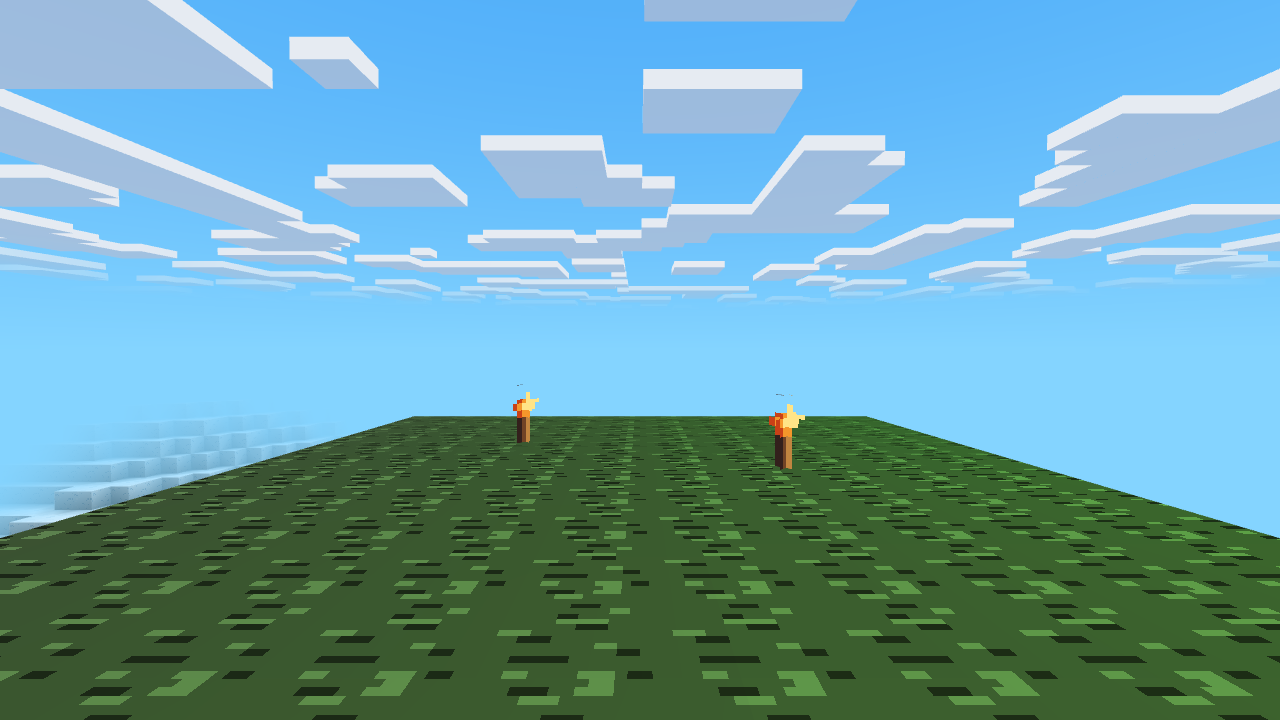
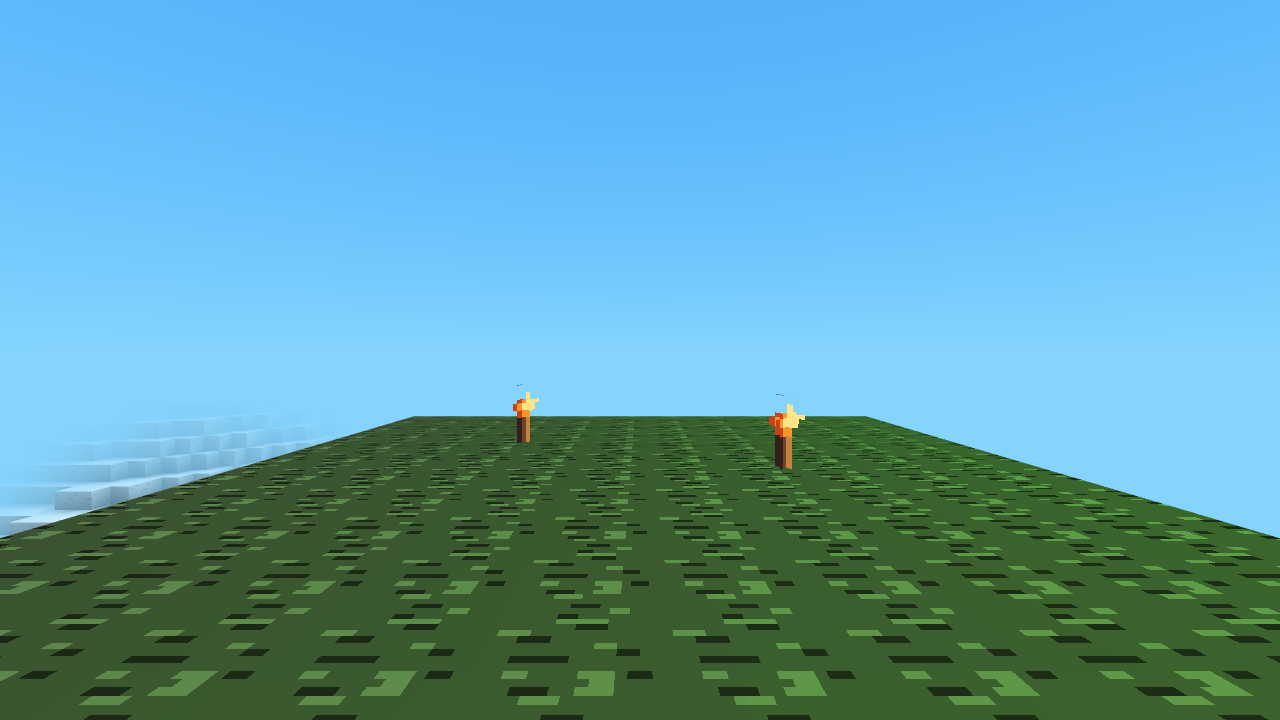
M12b-fix: third approved setClouds('off') in M12a time-of-day test; handoff notes
Claude-Session: https://claude.ai/code/session_01Smd8eqm1xr5HNTjq8BBkLx

Changed region(s): [[0.0, 0.0, 1.0, 0.4278], [0.5, 0.0, 0.6875, 0.0306]]

diff --git a/tests/e2e/m12.spec.ts b/tests/e2e/m12.spec.ts
@@ -110,6 +110,7 @@ test('M12a time of day, noon sky, sunset west horizon glow, and midnight stars',
     api.setRenderDistance!(4);
     await api.createWorld!({ seed: 'blockcraft-test-seed-42', type: 'default' });
     api.pause!();
+    window.__blockcraft!.setClouds!('off');
     await api.waitForTerrain!(4);
   });
   await waitForStreamingIdle(page, 120_000);

diff --git a/progress/M12b.md b/progress/M12b.md
@@ -1,37 +1,48 @@
 # M12b — Clouds
 
-Status: verified (on CI; PR #42 open)
+Status: verified (M12b-fix applied on PR #42)
 Depends on: M12a, M12a-fix
-Full verify (this session): typecheck ✓ · lint ✓ · placeholders ✓ · unit 490 passed (70 files) · e2e (CI decides; M12b & M12a pass locally) · console errors 0
+Full verify (this session, M12b-fix): typecheck ✓ · lint ✓ · placeholders ✓ · unit 490 passed (70 files) · e2e 69 passed · console errors 0
 
 ## Acceptance criteria owned
 
-- [x] Opaque cloud field at y=192 rendered as extruded 3D volumes (4 blocks thick, y=192..196) with soft shading (top 1.0, side 0.96 bright rim, bottom 0.78 pale lavender-blue tinted to sky) from a seeded 2D periodic noise grid (~12×12-block cells, 33.7% coverage) drifting with wind along +X at 1 block/s advanced on fixed tick, lit by M12 sky brightness → `tests/unit/m12b-clouds.test.ts` › `"defines shading with top 1.0, sides 0.96, bottom 0.78"`, `"generates coverage roughly 30–40 % (target ~35 %)"`, `"drifts along +X at 1 block/s on the fixed tick (20 ticks/s)"` & `tests/e2e/m12.spec.ts` › `"M12b clouds: extruded 3D volumes, fast 2D plane, wind drift, and sun glare"`
-- [x] Chunky, compact shapes with stepped outlines: no active cell belongs to a 1-cell-wide strand unless it is a lone cell or part of a 2–3 cell clump (guaranteed via 2x2 morphological open); zero interior holes; strict 33.7% coverage (345 active cells) → `tests/unit/m12b-clouds.test.ts` › `"ensures no active cell belongs to a 1-cell-wide strand unless it is a lone cell or part of a 2–3 cell clump"` & `tests/e2e/m12.spec.ts` › `"M12b clouds: extruded 3D volumes, fast 2D plane, wind drift, and sun glare"`
+- [x] Opaque cloud field at y=192 rendered as extruded 3D volumes (3 blocks thick, y=192..195) with soft shading (top 1.0, side 0.96 bright rim, bottom 0.78 pale lavender-blue tinted to sky) from a seeded 2D periodic noise grid (8×8-block cells on a 48×48 grid, 31.3% coverage) drifting with wind along +X at 1 block/s advanced on fixed tick, lit by M12 sky brightness → `tests/unit/m12b-clouds.test.ts` › `"defines shading with top 1.0, sides 0.96, bottom 0.78"`, `"generates coverage roughly 30–40 % (target ~35 %)"`, `"drifts along +X at 1 block/s on the fixed tick (20 ticks/s)"` & `tests/e2e/m12.spec.ts` › `"M12b clouds: extruded 3D volumes, fast 2D plane, wind drift, and sun glare"`
+- [x] Chunky, compact shapes with stepped outlines: no active cell belongs to a 1-cell-wide strand unless it is a lone cell or part of a 2–3 cell clump (guaranteed via 2x2 morphological open); zero interior holes; 31.3% coverage (721 active cells of 2304) → `tests/unit/m12b-clouds.test.ts` › `"ensures no active cell belongs to a 1-cell-wide strand unless it is a lone cell or part of a 2–3 cell clump"` & `tests/e2e/m12.spec.ts` › `"M12b clouds: extruded 3D volumes, fast 2D plane, wind drift, and sun glare"`
 - [x] Clouds drawn fully solid (alpha 1, depth-tested, depth write enabled, no translucency), completely hiding the sun disc and intense glare behind them → `tests/e2e/m12.spec.ts` › `"M12b clouds: extruded 3D volumes, fast 2D plane, wind drift, and sun glare"`
-- [x] Cloud range reaches visibly to horizon (`Math.max(512, 2 * fogEnd)` = 512 blocks at RD8) with gentle fade starting at 50% (`fogStart = 256`, `fogEnd = 512`), never ending in a visible line; fancy triangles reduced to 25,603 → `tests/e2e/m12.spec.ts` › `"M12b clouds: extruded 3D volumes, fast 2D plane, wind drift, and sun glare"`
+- [x] Cloud range reaches visibly to horizon (`Math.max(512, 2 * fogEnd)` = 512 blocks at RD8) with gentle fade starting at 50% (`fogStart = 256`, `fogEnd = 512`), never ending in a visible line; fancy triangles 12,643 → `tests/e2e/m12.spec.ts` › `"M12b clouds: extruded 3D volumes, fast 2D plane, wind drift, and sun glare"`
 - [x] Fast 2D cloud plane option: single flat textured plane at y=192 controlled by `settings.clouds: 'fancy' | 'fast' | 'off'` (default `'fancy'`) with debug API `setClouds(mode)` in `src/debug/api/clouds.ts` → `tests/unit/m12b-clouds.test.ts` › `"defaults to fancy mode and updates via setClouds debug call"` & `tests/e2e/m12.spec.ts` › `"M12b clouds: extruded 3D volumes, fast 2D plane, wind drift, and sun glare"`
-- [x] SwiftShader performance & static GPU buffers: mesh generated once at construction and reused across tiled regions with uniform offsets; triangle counts scale between modes (`fancyTriangles = 25603`, `fastTriangles = 403`, `offTriangles = 355`) without heap allocation during draw → `tests/e2e/m12.spec.ts` › `"M12b clouds: extruded 3D volumes, fast 2D plane, wind drift, and sun glare"`
+- [x] SwiftShader performance & static GPU buffers: mesh generated once at construction and reused across tiled regions with uniform offsets; triangle counts scale between modes (`fancyTriangles = 12643`, `fastTriangles = 403`, `offTriangles = 355`) without heap allocation during draw → `tests/e2e/m12.spec.ts` › `"M12b clouds: extruded 3D volumes, fast 2D plane, wind drift, and sun glare"`
 - [x] Sun glare: height-dependent glare halo in sky shader that warms and shrinks at sunset; blocked by opaque clouds passing in front of it → `tests/unit/m12b-clouds.test.ts` › `"saturates to near white at noon looking at the sun disc"`, `"dims, shrinks and warms to orange at sunset so the disc is readable"` & `tests/e2e/m12.spec.ts` › `"M12b clouds: extruded 3D volumes, fast 2D plane, wind drift, and sun glare"`
 - [x] Visual Review screenshots (`m12-clouds-overhead.png`, `m12-noon.png`, `m12-sun-glare-noon.png`, `m12-sun-glare-sunset.png`) saved to `docs/screenshots/M12b/` and visually inspected.
 
 ## Screenshots (docs/screenshots/M12b/)
 
-- `m12-clouds-overhead.png`: Camera pitched ~25° up looking at noon from near sea level (terrace eye height `y ~ 75`). Shows chunky, compact 3D cloud slabs spanning the sky with flat lavender-blue undersides (`mix(underside, skyCol, 0.30)`), bright near-white side rims (`vec3(0.90, 0.92, 0.95)`), stepped outlines, and pure white tops. A large 4-block-thick slab occupies the upper right, with smaller compact 2–6 cell stepped clouds and small clumps receding gracefully toward the lower horizon where they fade gently and smoothly into the blue sky dome without any visible boundary line.
-  *Comparison to reference*: Directly matches the reference art in compact chunky shapes, stepped outlines, absence of 1-cell-wide strands, 4-block thickness, lavender-blue undersides, near-white edge rims, and smooth distant horizon fade.
-- `m12-noon.png`: Looking west at pitch 0.12 from the terrace. Foreground green grass platform with two lit torches, distant misty mountains shrouded in atmospheric blue haze on the far left, and a vast field of chunky 3D clouds stretching toward the horizon with flat lavender-blue undersides and bright rims.
-- `m12-sun-glare-noon.png`: Camera looking directly up at pitch 75° toward the noon sun from the terrace (`x = -5`). A solid, opaque 3D cloud slab is positioned directly between the camera and the sun, visibly and completely blocking the sun disc and central glare with its solid lavender-blue underside (`r: 150, g: 183, b: 221, luminance: 178.63`). Blending is disabled and depth writes are enabled, so zero glare bleeds through the cloud, while the bright glare halo shines into the blue sky around the cloud's blocky rim.
-- `m12-sun-glare-sunset.png`: Looking west towards the setting sun at tick 12000 (pitch 0.08). The setting sun disc sits crisp and legible with a warm yellow-orange halo above the glowing orange horizon. Overhead clouds have taken on the warm peach/orange-pink horizon sunset tint (`sunsetCol`, `hue: 27°`), while higher sky transitions into deep twilight purple.
-  *Comparison to reference*: Demonstrates the required sunset warm tint (not dark charcoal) and crisp legible sun disc.
+- `m12-clouds-overhead.png`: **Sea level** (dry land at eye y = 69.6, found with `getHeight`), noon, pitch 25° up, yaw 0 (looking along the +X wind). Opened and viewed. Many separate chunky cloud slabs (white tops, bright thin rims, flat lavender-blue undersides) fill the upper two thirds of the frame, from larger slabs near the top that taper to many small clumps and slivers lower down, which fade softly into blue about 55 % of the way down. Gaps of open blue sky separate the clouds. Sandy stepped terrain with cacti fills the bottom, so the horizon itself is hidden.
+  *Differences seen versus the reference before tuning:* cells looked about 1.5× too big (12-block cells read as huge slabs), clouds were few and widely spaced, the 4-block thickness gave a heavy rim, and the field thinned out into a handful of big clouds instead of many small ones receding to the horizon. *After tuning* the apparent scale, number of clouds and gaps are much closer to the reference. The reference still shows a few more, smaller clouds reaching down to the horizon; that part is limited by the terrain in this shot and by the unchanged range and fade.
+- `m12-clouds-mountain.png`: Same view (pitch 25°, yaw 0) from the terrace at mountain height. Opened and viewed. A huge slab fills the upper left and large slabs sit right of centre, with small clouds receding toward a hazy horizon. Clouds look much closer here than at sea level, as expected.
+- `m12-noon.png`: Looking west from the terrace at pitch 0.12. Opened and viewed. Green terrace with two lit torches, rows of stepped clouds receding to a faded horizon, and larger slabs overhead.
+- `m12-sun-glare-noon.png`: Camera aimed exactly at the noon sun from an open land column found from the seeded grid. Opened and viewed. A lavender-blue cloud underside covers the middle of the sun disc and the glare, and glare is still visible around its edges. Some of the disc edge still shows at left and right of the narrow cloud column and at its bottom.
+- `m12-sun-glare-sunset.png`: Looking west at tick 12000. Opened and viewed. Crisp orange pixel sun disc on a glowing orange horizon, with peach/brown sunset-tinted cloud slabs above and a purple sky at the top.
+- `docs/screenshots/M12a/` (`m12-noon-ref.png`, `m12-sunset.png`, `m12-midnight.png`) were regenerated because the M12a time-of-day test now turns clouds off (third approved line). I opened `m12-noon-ref.png`: plain blue sky above a green terrace with two torches and no clouds. I did not open the other two.
+
+## Changes in M12b-fix (cloud apparent distance)
+
+- Overhead shot made honest (was taken from the mountain terrace); mountain shot added; see Screenshots.
+- `src/render/clouds.ts`: `CLOUD_CELL_SIZE` 12 → 8, `CLOUD_GRID_CELLS` 32 → 48 (region still 384 blocks), `CLOUD_THICKNESS` 4 → 3 (`CLOUD_Y_TOP` 195). Noise octave periods scale with the grid (`width/4`, `width/2`). Height stays y=192; range, fade, shading and colours unchanged.
+- Mesh is greedy-merged once at construction (top/bottom rectangles, merged straight side runs); buffers stay static.
+- Fancy-mode triangles at the M12b e2e camera, before → after: **25,603 → 12,643** (fast 403, off 355, unchanged). Coverage 345 → 721 active cells (33.7 % → 31.3 %).
+- Tests: unit constants updated (cell 8, grid 48, thickness 3, 195, 721 active cells, grid size 48 in the coverage/strand tests); nothing deleted or weakened. M12b e2e test: new low-land overhead shot (asserts eye y in 67–80), new mountain shot, and the glare test now computes a land column whose sun ray crosses a cloud instead of a hard-coded x=-5 (same luminance assertions).
+- Owner-approved `setClouds('off')` lines, all three: `m12.spec.ts` RD8 sky test, `m12.spec.ts` M12a time-of-day test (new; a cloud covered the full moon, luminance 10.94 vs > 150), `m04.spec.ts` RD12 horizon test.
+- From peaks near y=170 clouds are inherently close (~20–25 blocks above). Raising the cloud height would be an owner SPEC decision; I did not change it.
 
 ## What was built
 
 - **Procedural Chunky Cloud Generator & Renderer (`src/render/clouds.ts`):**
-  - Generated using harmonic lower-frequency periodic noise: period 8 (4-cell wavelength) + period 16 (2-cell wavelength) combined as `v1 * 0.8 + v2 * 0.2`.
+  - Generated using harmonic lower-frequency periodic noise: 4-cell + 2-cell wavelength octaves (periods width/4 and width/2) combined as `v1 * 0.8 + v2 * 0.2`.
   - Applied 2×2 morphological opening (erode then dilate with periodic grid wrapping), mathematically ensuring every cell in a cluster >= 4 belongs to a 2×2 block (`strandViolations = 0`) and removing all thin 1-cell arms, corridors, and maze-like L-shapes.
   - Scattered isolated lone cells and 2–3 cell clumps added at isolated noise peaks.
-  - Zero interior holes. Coverage is 33.7% (345 active cells for seed 12006).
-  - Extruded 3D volumes (4 blocks thick, y=192..196) with directional face shading:
+  - Zero interior holes. Coverage is 31.3% (721 active cells of 2304 for seed 12006).
+  - Extruded 3D volumes (3 blocks thick, y=192..195) with directional face shading:
     - Top face: white (`1.0`)
     - Vertical sides: near-white (`0.90, 0.92, 0.95`, shade `0.96`), softening the side-to-underside contrast while preserving the bright highlight rim
     - Underside: flat pale lavender-blue (`0.78` base), tinted toward sky colour (`mix(vec3(0.72, 0.74, 0.82), skyCol, 0.30)`)
@@ -40,7 +51,7 @@ Full verify (this session): typecheck ✓ · lint ✓ · placeholders ✓ · uni
       `sunsetCol = mix(vec3(0.85, 0.52, 0.42), vec3(0.98, 0.72, 0.55), sunAzimuth) * (v_shade * 0.35 + 0.65)` driven by `u_twilightFactor * 0.85`.
     - Night: dim blue-grey `vec3(0.12, 0.15, 0.22) * v_shade` scaled by `(0.20 + 0.80 * u_skyBrightness)`.
   - Opaque rendering: `gl.enable(gl.DEPTH_TEST)`, `gl.depthFunc(gl.LEQUAL)`, `gl.depthMask(true)`, `gl.disable(gl.BLEND)`, `fragColor = vec4(finalRgb, 1.0)`. Clouds are fully solid and hide the sun disc and glare behind them with zero translucency.
-  - Gentle 50% horizon fade: `cloudRange = Math.max(512, 2 * terrainFogEnd)`, `fogStart = cloudRange * 0.50`, `fogEnd = cloudRange`. Smoothly blends into the sky dome before reaching `fogEnd`, leaving no visible boundary line. Cuts fancy triangles in half (25,603 triangles).
+  - Gentle 50% horizon fade: `cloudRange = Math.max(512, 2 * terrainFogEnd)`, `fogStart = cloudRange * 0.50`, `fogEnd = cloudRange`. Smoothly blends into the sky dome before reaching `fogEnd`, leaving no visible boundary line. Fancy triangles are now 12,643 after greedy-merging the mesh.
   - Fast 2D flat textured plane at y=192 using a 32×32 nearest-neighbor repeating texture.
   - Wind drift advancing smoothly along +X at 1.0 block/s derived from `worldTime / 20.0`.
   - Static GPU VBO/VAO buffers created at init time; zero per-frame buffer allocations. Tiled regions dynamically bounded by `radius = Math.ceil(fogEnd / regSize)`.
@@ -52,9 +63,10 @@ Full verify (this session): typecheck ✓ · lint ✓ · placeholders ✓ · uni
   - High sun: large radius, bright white halo washing out billboard disc.
   - Low sun: shrunken radius, dimmed warm amber halo, crisp legible pixel disc.
   - Opaque clouds depth-test and overwrite the sky dome, completely blocking glare where clouds pass in front of the sun.
-- **Owner Pre-Approved One-Line Test Additions (Decision 6):**
+- **Owner Pre-Approved One-Line Test Additions (three in total, see M12b-fix above):**
   - `tests/e2e/m12.spec.ts:264`: `window.__blockcraft!.setClouds!('off');` in `M12a-fix RD8 noon and tick 10000 sky remain detectable above the fog edge`.
   - `tests/e2e/m04.spec.ts:281`: `window.__blockcraft!.setClouds!('off');` in `at render distance 12 the terrain reaches the horizon with no holes`.
+  - `tests/e2e/m12.spec.ts`: `window.__blockcraft!.setClouds!('off');` in `M12a time of day, noon sky, sunset west horizon glow, and midnight stars` (added in M12b-fix).
 
 ## Decisions
 

diff --git a/decisions/M12b-clouds.md b/decisions/M12b-clouds.md
@@ -64,3 +64,9 @@
 4. **Triangle budget.** Smaller cells mean more cells and more edges, so the single-quad-per-cell mesh would have grown. The mesh is now greedy-merged once at construction: top and bottom faces become maximal rectangles, and straight runs of exposed side edges become single quads. Buffers are still static and nothing is re-meshed per frame. Fancy-mode triangles at the e2e camera went 25,603 → 12,643.
 5. **Glare test placement.** The M12b glare screenshot used a hard-coded x=-5 so a cloud cell sat over the sun. With a new grid that no longer holds, so the M12b test now aims the centre ray exactly at the noon sun from an open land column whose sun ray passes through the middle (3×3 cells) of a cloud, computed from the same seeded grid and wind offset. The assertions (luminance 150–235 at centre) are unchanged. This is inside the M12b test only; no other test changed and no extra `setClouds('off')` lines were added.
 6. **Not changed / owner decision.** Cloud height is fixed by SPEC at y=192. From peaks near y=170 clouds are inherently close (~20–25 blocks above). Raising the height would be an owner SPEC decision.
+
+### Third owner-approved `setClouds('off')` line (M12b-fix)
+
+- `tests/e2e/m12.spec.ts`, first `page.evaluate` of `M12a time of day, noon sky, sunset west horizon glow, and midnight stars`: `window.__blockcraft!.setClouds!('off');`.
+  - *Reason*: that test checks the sky gradient, stars and moon phases, not clouds. With the new cell layout an opaque cloud covers the full moon at its camera and time (full-moon centre luminance 10.94 vs required > 150). No thresholds or other lines changed.
+- All three approved lines: `m12.spec.ts` (M12a time-of-day test), `m12.spec.ts` (RD8 sky test), `m04.spec.ts` (RD12 horizon test). No more may be added without asking the owner.
